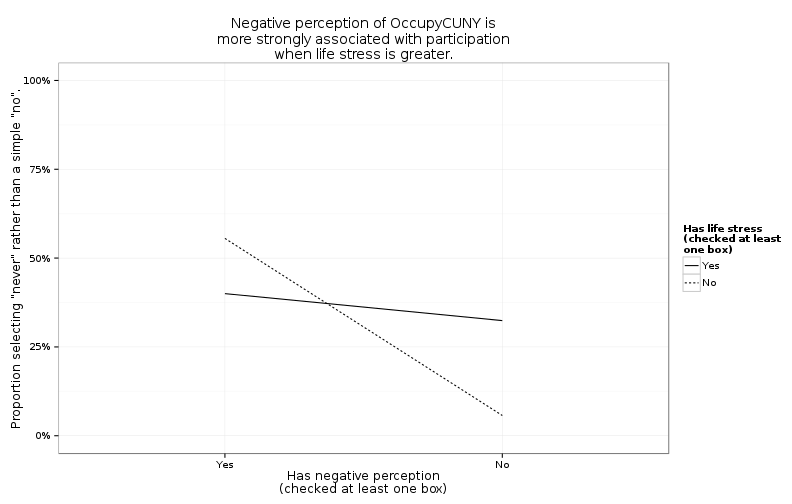
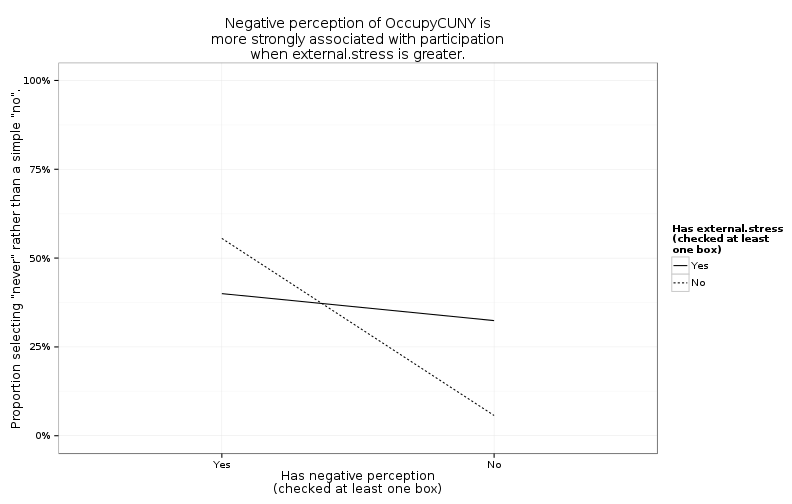
introduction

diff --git a/readme.md b/readme.md
@@ -1,4 +1,4 @@
-Life stresses mediate an association between negative perception of activism and a decision never to participate
+external stresses mediate an association between negative perception of activism and a decision never to participate
 ======
 Thomas Levine and Mimiko Watanabe
 
@@ -17,29 +17,29 @@ li:before { content: "□ "; }
 ## Research question
 We wanted to test whether a desire to participate in activim was associated
 with increased participation in activism and whether this relationship was
-mediated by life stresses.
+mediated by external stresses.
 
-    +---------------+                   +---------------+
-    | Interest in   |                   | Participation |
-    | participating |   ------------>   | in activism   |
-    | in activism   |                   |               |
-    +---------------+        / \        +---------------+
-                              | 
-                      
-                      +---------------+
-                      | Life stress   |
-                      | (Barriers to  |
-                      | participation)|
-                      +---------------+
+    +-----------------+                   +-----------------+
+    | Interest in     |                   | Participation   |
+    | participating   |   ------------>   | in activism     |
+    | in activism     |                   |                 |
+    +-----------------+        / \        +-----------------+
+                                | 
+                        
+                       +-----------------+
+                       | external stress |
+                       | (Barriers to    |
+                       | participation)  |
+                       +-----------------+
 
 Preferably, we would have had each participant answer the same questions
 about her level of interest of participation (such as whether she agrees
 with the movement's views or whether she think the movement will have
-positive impact) and her life stresses (like working overtime) and her
+positive impact) and her external stresses (like working overtime) and her
 level of participation.
 
 ## The questionnaire
-A questionnaire was developed using critical PAR [*] as the methodological approach.
+A questionnaire was developed using critical PAR[*] as the methodological approach.
 It was based on the collective experiences of the researchers as CUNY students.
 Several pilot surveys were distributed on CUNY campuses and at the Free University, an activist event in Madison Square Park that occurred on May 1, 2012. This enabled researchers to revise and build the survey based on feedback from students. Insight from CUNY students was essential in the construction of the survey. Distribution of the final version of the survey began May 1, 2012 and continued until September 16, 2012. Surveys were collected on CUNY campuses, in classrooms, at CUNY activist events, and online.
 
@@ -71,7 +71,7 @@ to all participants (question 8).
 > * No. I would like to participate but ________
 
 The questions about interest in participation (question 7) and
-about life stress (question 4) were arranged such that people answered different
+about external stress (question 4) were arranged such that people answered different
 questions depending on whether they had previously participated in
 OccupyCUNY, which is quite related to their level of participation
 in activism.
@@ -153,19 +153,19 @@ analysis for the respondents who said they had not participated in
 OccupyCUNY. This led to a reversed framing of the relationship 
 described above.
 
-    +---------------+                   +---------------+
-    | Negative atti-|                   | Decisiveness  |
-    | tude towards  |   ------------>   | about not     |
-    | activism      |                   | participating |
-    +---------------+        / \        +---------------+
-      (question 7c)           |           (question 8)
+    +-----------------+                   +-----------------+
+    | Negative atti-  |                   | Decisiveness    |
+    | tude towards    |   ------------>   | about not       |
+    | activism        |                   | participating   |
+    +-----------------+        / \        +-----------------+
+      (question 7c)             |            (question 8)
                       
-                      +---------------+
-                      | Life stress   |
-                      | (Barriers to  |
-                      | participation)|
-                      +---------------+
-                        (question 4c)
+                       +-----------------+
+                       | external stress |
+                       | (Barriers to    |
+                       | participation)  |
+                       +-----------------+
+                          (question 4c)
 
 ### Variables
 The questionnaire requested that question 4c only be answered by people who had
@@ -177,14 +177,14 @@ had not participated but (would like to ?).
 
 For both questions 4c and 7c, almost people checked either zero or one box.
 For simplicity, we simply checked whether at least one of the respective
-groups of check marks was checked. Thus, our life stress variable,
-`has.life.stress`, was true if at least one of question 4c's boxes was checked
+groups of check marks was checked. Thus, our external stress variable,
+`has.external.stress`, was true if at least one of question 4c's boxes was checked
 and false if none was checked. Similarly, our variable for negative perception
 of activism, `has.negative.perception`, was true if at least one of 7c's
 boxes was checked and false if none were.
 
 We chose variable names that start with the word "has" so that it would be less
-confusing to talk about, but both groups obviously have both life stresses
+confusing to talk about, but both groups obviously have both external stresses
 and some negative perception of activism; if these names bother you, mentally
 switch the "has" to "has more".
 
@@ -194,18 +194,18 @@ who said "never" (rather than "no, ... but").
 
 
 ```
-  has.life.stress has.negative.perception p.no.never
-1             Yes                     Yes        40%
-2             Yes                      No      32.4%
-3              No                     Yes      55.6%
-4              No                      No       5.7%
+  has.external.stress has.negative.perception p.no.never
+1                 Yes                     Yes        40%
+2                 Yes                      No      32.4%
+3                  No                     Yes      55.6%
+4                  No                      No       5.7%
 ```
 
 
 ### Logistic regression
 We fit two logistic regressions and compared them with a likelihood ratio test.
 As a null model, we fit the simple logistic regression of `no.never` as a
-function of `has.negative perception`, ignorant of `has.life.stress`.
+function of `has.negative perception`, ignorant of `has.external.stress`.
 
 
 ```
@@ -239,13 +239,13 @@ The `has.negative.perception` coefficient is significantly different from zero,
 indicating that negative perception is associated with participation.
 
 Then we fit a logistic regression for the full relationship described above,
-which adds the `has.life.stress` term.
+which adds the `has.external.stress` term.
 
 
 ```
 
 Call:
-glm(formula = no.never ~ has.life.stress * has.negative.perception, 
+glm(formula = no.never ~ has.external.stress * has.negative.perception, 
     family = "binomial", data = o)
 
 Deviance Residuals: 
@@ -253,11 +253,11 @@ Deviance Residuals:
 -1.274  -0.885  -0.885   1.354   2.393  
 
 Coefficients:
-                                        Estimate Std. Error z value Pr(>|z|)    
-(Intercept)                               -2.803      0.728   -3.85  0.00012 ***
-has.life.stress                            2.068      0.757    2.73  0.00627 ** 
-has.negative.perception                    3.027      0.990    3.06  0.00224 ** 
-has.life.stress:has.negative.perception   -2.697      1.048   -2.57  0.01007 *  
+                                            Estimate Std. Error z value Pr(>|z|)    
+(Intercept)                                   -2.803      0.728   -3.85  0.00012 ***
+has.external.stress                            2.068      0.757    2.73  0.00627 ** 
+has.negative.perception                        3.027      0.990    3.06  0.00224 ** 
+has.external.stress:has.negative.perception   -2.697      1.048   -2.57  0.01007 *  
 ---
 Signif. codes:  0 '***' 0.001 '**' 0.01 '*' 0.05 '.' 0.1 ' ' 1 
 
@@ -272,12 +272,12 @@ Number of Fisher Scoring iterations: 5
 
 
 All of the non-intercept coefficients significantly different from zero,
-indicating that negative perception and life stress, separately, are both
+indicating that negative perception and external stress, separately, are both
 associated with participation and that the associations are different
-when combined. Specifically, someone with just negative perception or life
+when combined. Specifically, someone with just negative perception or external stress
 has higher odds of saying "never" than someone with neither, but the odds
 are somewhere in between for someone who has both negative perception and
-life stress.
+external stress.
 
 Finally, we compared the two with a likelihood ratio test.
 
@@ -289,7 +289,7 @@ Chi-squared 2 d.f. =  12.88 , P value =  0.001594
 
 
 The likelihood ratio test finds that the data are significantly more likely
-given the full model than the null model, suggesting, again, that life stress
+given the full model than the null model, suggesting, again, that external stress
 significantly mediates the relationship between negative perception and
 participation in activism.
 
@@ -324,7 +324,7 @@ F-statistic:  5.6 on 1 and 205 DF,  p-value: 0.0188
 ```
 
 Call:
-lm(formula = no.never ~ has.life.stress * has.negative.perception, 
+lm(formula = no.never ~ has.external.stress * has.negative.perception, 
     data = o)
 
 Residuals:
@@ -332,11 +332,11 @@ Residuals:
 -0.556 -0.324 -0.324  0.600  0.943 
 
 Coefficients:
-                                        Estimate Std. Error t value Pr(>|t|)   
-(Intercept)                               0.0571     0.0759    0.75   0.4526   
-has.life.stress                           0.2669     0.0874    3.06   0.0026 **
-has.negative.perception                   0.4984     0.1679    2.97   0.0034 **
-has.life.stress:has.negative.perception  -0.4225     0.1836   -2.30   0.0224 * 
+                                            Estimate Std. Error t value Pr(>|t|)   
+(Intercept)                                   0.0571     0.0759    0.75   0.4526   
+has.external.stress                           0.2669     0.0874    3.06   0.0026 **
+has.negative.perception                       0.4984     0.1679    2.97   0.0034 **
+has.external.stress:has.negative.perception  -0.4225     0.1836   -2.30   0.0224 * 
 ---
 Signif. codes:  0 '***' 0.001 '**' 0.01 '*' 0.05 '.' 0.1 ' ' 1 
 
@@ -349,7 +349,7 @@ F-statistic: 5.36 on 3 and 203 DF,  p-value: 0.00142
 Analysis of Variance Table
 
 Model 1: no.never ~ has.negative.perception
-Model 2: no.never ~ has.life.stress * has.negative.perception
+Model 2: no.never ~ has.external.stress * has.negative.perception
   Res.Df RSS Df Sum of Sq    F Pr(>F)   
 1    205  43                            
 2    203  41  2      2.07 5.13 0.0067 **
@@ -363,10 +363,10 @@ We intuitively suspect a particular direction of causality and have fit models
 that suggest that direction, but the questionnaire gives us no formal idea
 about the direction of causality; for example, it could be that the choice never
 to participate leads to overstatement of reasons against participation and
-of life stresses.
+of external stresses.
 
 ## Conclusion
-Life stresses mediate an association between negative perception of activism
+external stresses mediate an association between negative perception of activism
 and a decision never to participate in Occupy CUNY. For interpreting the
 direction of this relationship, the following plot is helpful.
 
@@ -374,11 +374,11 @@ direction of this relationship, the following plot is helpful.
 
 
 Negative perception makes people more likely to say they will "never"
-participate, regardless of the level of life stress, and having life stress
+participate, regardless of the level of external stress, and having external stress
 makes this difference larger.
 
 ## Ideas for future study
-It would be nice to pin down our nebulous concepts of life stress and negative perception.
+It would be nice to pin down our nebulous concepts of external stress and negative perception.
 Rather than qualifying the sorts of stresses and perceptions, we simply ignored which boxes people checked for questions 4c and 7c. It may be
 informative to see how the particular box that was checked relates to
 the question 8 result or other results.
@@ -386,20 +386,20 @@ the question 8 result or other results.
 We could also test the same relationship with the larger and more general
 [Occupy Research General Survey](http://www.occupyresearch.net/orgs/).
 It contains questions similar to the ones from the OccuPAR questionnaire
-that we used as indicators of life stress, perception of activism and
+that we used as indicators of external stress, perception of activism and
 participation in activism, but it has more responses from a wider movement.
 
 ## Relevance
 The conclusion of this study can be applied to the marketing surrounding
 activism. Aside from trying to influence people's perception of the
-value of activism, marketing should consider activists' life stresses.
+value of activism, marketing should consider activists' external stresses.
 
 People who are trying to recruit and sustain activists should
-focus on people with fewer life stresses or should provide support to
-current and potential activists who have more life stresses.
+focus on people with fewer external stresses or should provide support to
+current and potential activists who have more external stresses.
 
 People who are trying to suppress activism should focus on people with
-more life stresses or should try to make the lives of potential and
+more external stresses or should try to make the lives of potential and
 current activists more stressful.
 
 ## The research team
